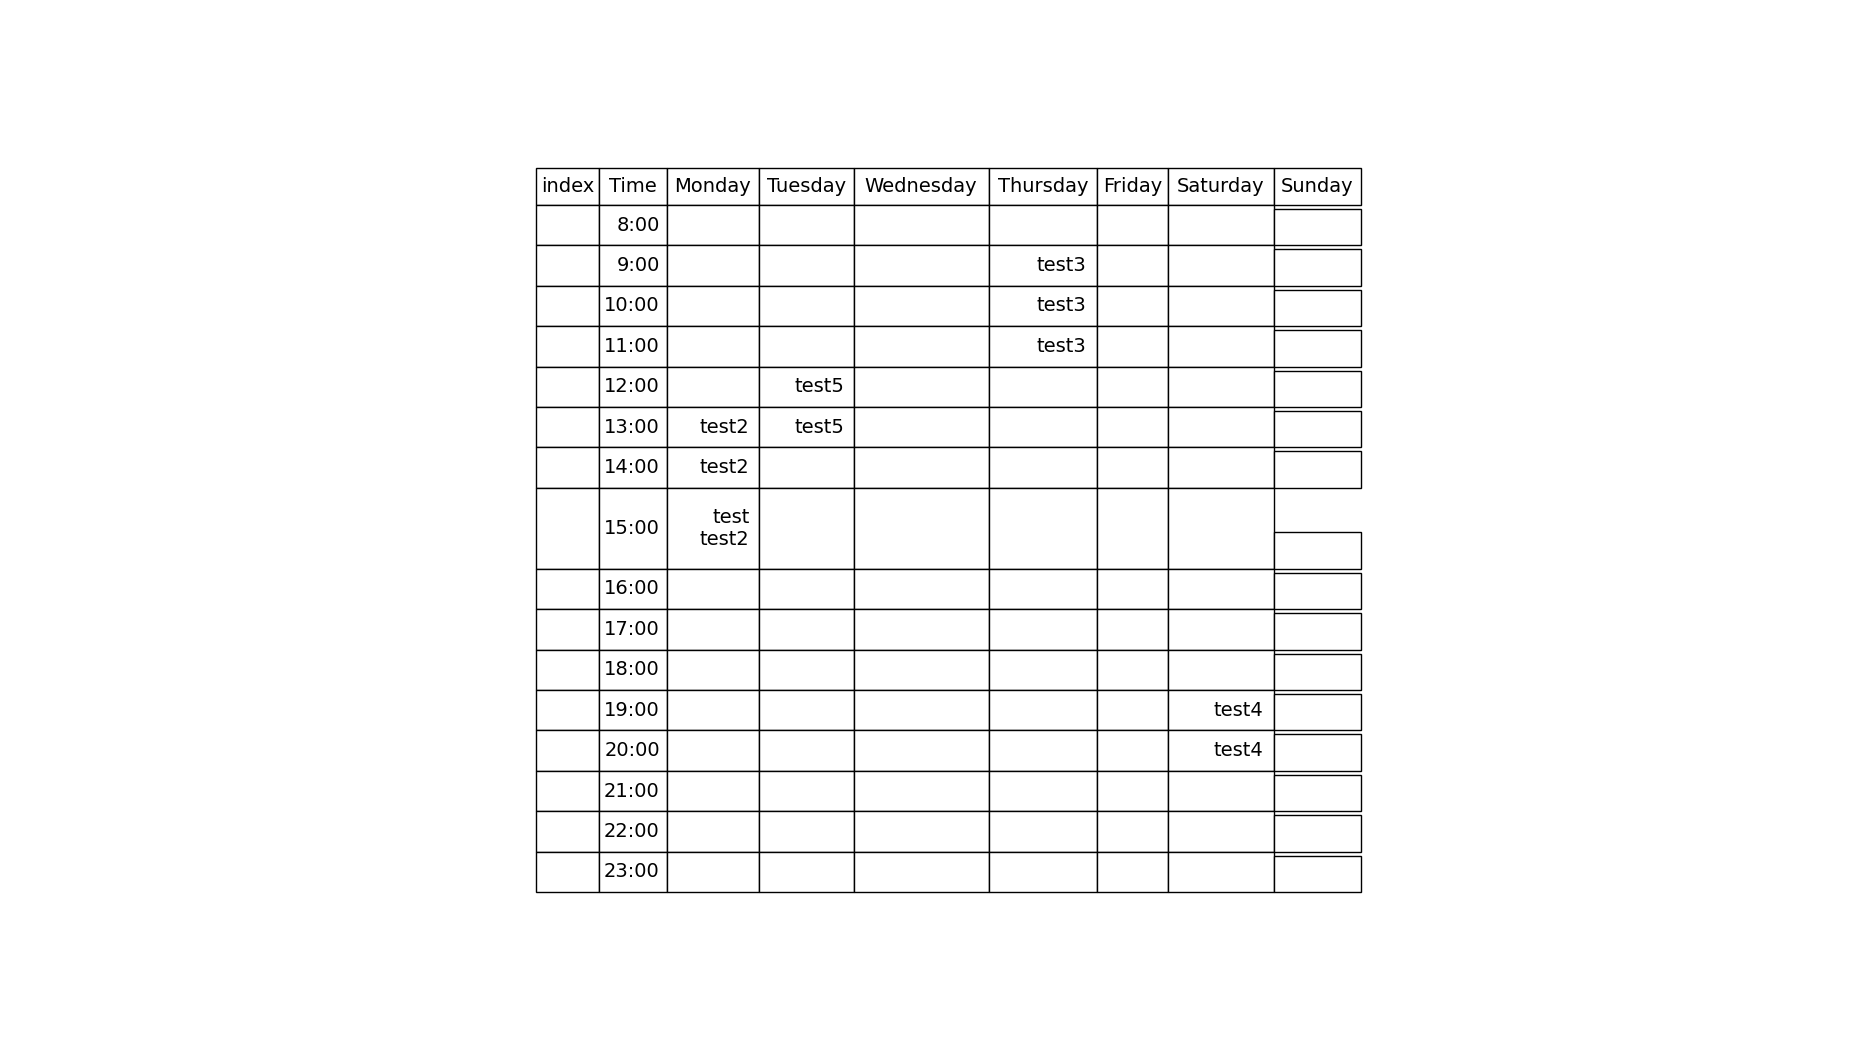
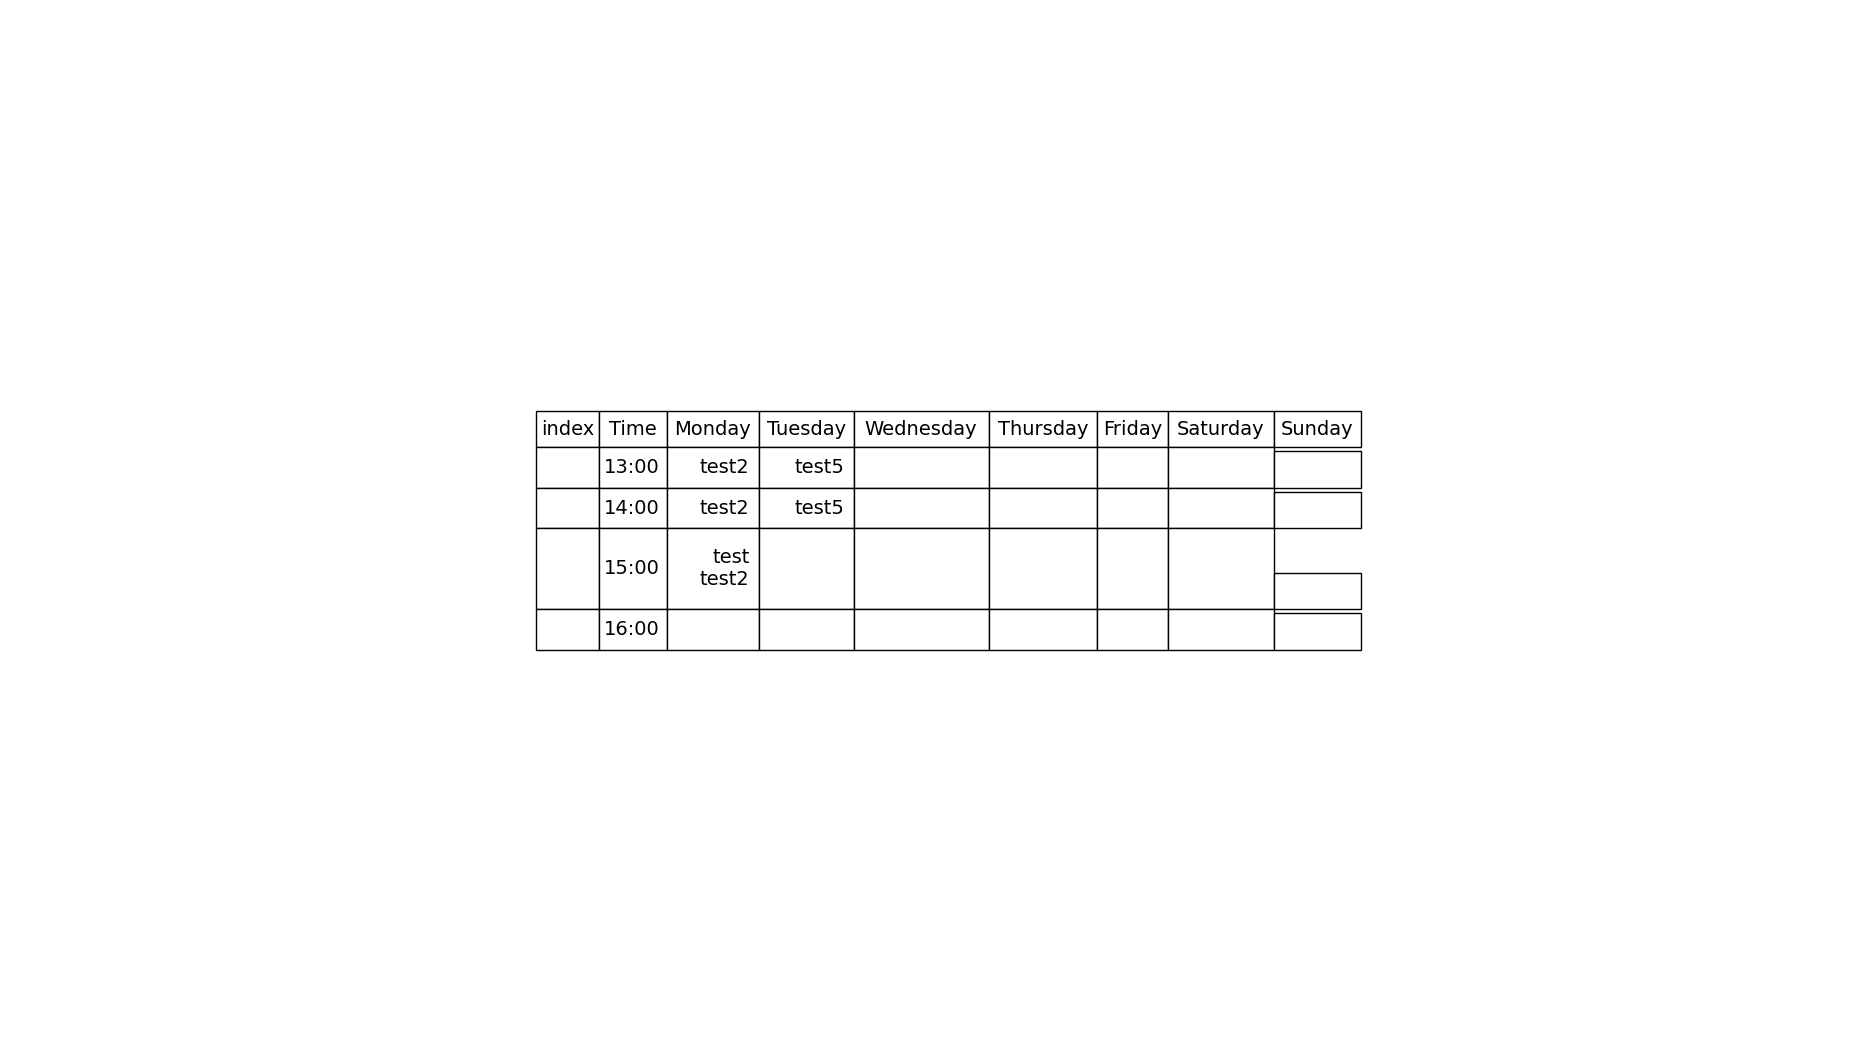
Code organized and time interval bugs fixed

diff --git a/scheduler.py b/scheduler.py
@@ -1,8 +1,15 @@
-from config import DEBUG, START_OF_DAY_HOUR, END_OF_DAY_HOUR, TIME_INTERVAL
+from config import DEBUG, START_OF_DAY_HOUR, END_OF_DAY_HOUR, TIME_INTERVAL_TYPE
 import matplotlib.pyplot as plt
 import matplotlib.table
 import pandas as pd
 from db import Database
+
+if TIME_INTERVAL_TYPE == 1:
+    TIME_INTERVAL = 4
+elif TIME_INTERVAL_TYPE == 2:
+    TIME_INTERVAL = 2
+else:
+    TIME_INTERVAL = 1
 
 
 class Scheduler:
@@ -182,7 +189,7 @@ class Scheduler:
 
         return cursor
 
-    def get_activities_by_type(self, act_type, start_date, end_date):
+    def get_activities_by_a_type(self, act_type, start_date, end_date):
         """ get activities from the database e for a user """
 
         select_sql = f"""SELECT * FROM Activity WHERE type = {act_type} AND date >= '{start_date}' 
@@ -201,59 +208,118 @@ class Scheduler:
 
         return cursor
 
-    def add_activity_to_dataframe(self, start_time_index, end_time_index, column, title):
+    def get_activities_by_set_of_types(self, types: tuple, start_date, end_date):
+        """ get activities from the database e for a user """
+
+        select_sql = f"""SELECT * FROM Activity WHERE type IN {types} AND date >= '{start_date}' 
+                        AND date <= '{end_date}';"""
+
+        cursor = self.db.select(select_sql)
+
+        if cursor is None:
+            print("No activities found for these types")
+            return None
+
+        cursor = cursor.fetchall()
+        if cursor is None or len(cursor) == 0:
+            print("No activities found for these types")
+            return None
+
+        return cursor
+
+    def add_activity_to_dataframe(self, activity):
         """ Add an activity to the dataframe """
+
+        # Find the day of the week
+        column = pd.to_datetime(activity[5]).day_name()
+
+        # Find the start and end time
+        start_time = pd.to_datetime(activity[6]).strftime('%H:%M')
+        end_time = pd.to_datetime(activity[7]).strftime('%H:%M')
+
+        # Find the start and end time index
+        start_time_index, end_time_index = self.get_start_and_end_time_index(start_time, end_time)
+
+        # Find the title
+        title = activity[2]
+
         if DEBUG:
-            print(start_time_index, end_time_index, column, title)
+            print("add_activity_to_dataframe:", start_time_index, end_time_index, column, title)
 
         # Add the title to the dataframe
         for i in range(start_time_index, end_time_index):
+            if DEBUG:
+                print("add_activity_to_dataframe 2:", i, (END_OF_DAY_HOUR - START_OF_DAY_HOUR) * TIME_INTERVAL,
+                      len(self.df_weekly))
+
+            if i < 0 or i >= (END_OF_DAY_HOUR - START_OF_DAY_HOUR) * TIME_INTERVAL:
+                continue
+
             if (self.df_weekly.loc[i, column] == '' or self.df_weekly.loc[i, column] == 'nan'
                     or not isinstance(self.df_weekly.loc[i, column], str)):
                 self.df_weekly.loc[i, column] = title
             else:
                 self.df_weekly.loc[i, column] += f'\n{title}'
 
-    def create_weekly_dataframe_hourly(self, start_date, end_date):
+    def get_start_and_end_time_index(self, start_time, end_time):
+        start_time_index = None
+        end_time_index = None
+
+        start_hour = int(start_time.split(':')[0])
+        start_min = int(start_time.split(':')[1])
+
+        end_hour = int(end_time.split(':')[0])
+        end_min = int(end_time.split(':')[1])
+
+        # Find the start and end time index
+        if TIME_INTERVAL_TYPE == 1:
+            start_time_index = (start_hour - START_OF_DAY_HOUR) * 4 + (start_min // 15)
+
+            end_min_index = end_min // 15
+            end_time_index = (end_hour - START_OF_DAY_HOUR) * 4 + end_min_index + (end_min % 15 > 0)
+
+        elif TIME_INTERVAL_TYPE == 2:
+            start_time_index = (start_hour - START_OF_DAY_HOUR) * 2 + (start_min // 30)
+            end_time_index = (end_hour - START_OF_DAY_HOUR) * 2 + (end_min // 30) + (end_min % 30 > 0)
+
+        elif TIME_INTERVAL_TYPE == 3:
+            start_time_index = (start_hour - START_OF_DAY_HOUR)
+            end_time_index = (end_hour - START_OF_DAY_HOUR) + (end_min > 0)
+
+        if DEBUG:
+            print("get_start_and_end_time_index:", start_time_index, end_time_index)
+
+        return start_time_index, end_time_index
+
+    def create_weekly_dataframe_hourly(self, start_date, end_date, types: tuple = (0, 1, 2, 3, 4, 5)):
         """ create a dataframe for the activities in the database for a period of time based on hourly intervals """
 
         # Get all activities in the interval
-        activities = self.get_activities_by_date(start_date, end_date)
+        activities = self.get_activities_by_set_of_types(types, start_date, end_date)
 
         # Add the time to the dataframe
         for i in range(START_OF_DAY_HOUR, END_OF_DAY_HOUR):
             self.df_weekly.loc[i - START_OF_DAY_HOUR, 'Time'] = f'{i}:00'
 
+            if DEBUG:
+                self.df_weekly.loc[i - START_OF_DAY_HOUR, 'index'] = f'{i - START_OF_DAY_HOUR}'
+
         # Add all activities to the dataframe
         if DEBUG:
-            print(activities)
+            print("create_weekly_dataframe_hourly:", activities)
 
         for activity in activities:
-            # Find the day of the week
-            day_of_week = pd.to_datetime(activity[5]).day_name()
-
-            # Find the start and end time
-            start_time = pd.to_datetime(activity[6]).strftime('%H:%M')
-            end_time = pd.to_datetime(activity[7]).strftime('%H:%M')
-
-            # Find the start and end time index
-            start_time_index = int(start_time.split(':')[0]) - START_OF_DAY_HOUR
-            end_time_index = int(end_time.split(':')[0]) - START_OF_DAY_HOUR
-
-            # Find the title
-            title = activity[2]
-
-            self.add_activity_to_dataframe(start_time_index, end_time_index, day_of_week, title)
+            self.add_activity_to_dataframe(activity)
 
         # Fill all empty cells with empty string
         self.df_weekly.fillna('', inplace=True)
 
         return self.df_weekly
 
-    def create_weekly_dataframe_30_mins(self, start_date, end_date):
+    def create_weekly_dataframe_30_mins(self, start_date, end_date, types: tuple = (0, 1, 2, 3, 4, 5)):
         """ create a dataframe for the activities in the database for a period of time based on 30 minutes intervals """
         # Get all activities in the interval
-        activities = self.get_activities_by_date(start_date, end_date)
+        activities = self.get_activities_by_set_of_types(types, start_date, end_date)
 
         # Add the time to the dataframe
         for i in range(START_OF_DAY_HOUR, END_OF_DAY_HOUR):
@@ -266,40 +332,20 @@ class Scheduler:
 
         # Add all activities to the dataframe
         if DEBUG:
-            print(activities)
+            print("create_weekly_dataframe_30_mins:", activities)
 
         for activity in activities:
-            # Find the day of the week
-            day_of_week = pd.to_datetime(activity[5]).day_name()
-
-            # Find the start and end time
-            start_time = pd.to_datetime(activity[6]).strftime('%H:%M')
-            end_time = pd.to_datetime(activity[7]).strftime('%H:%M')
-
-            # Find the start and end time index
-            tmp_start_time = start_time.split(':')
-            start_time_index = 2 * (int(tmp_start_time[0]) - START_OF_DAY_HOUR) + (int(tmp_start_time[1]) // 30)
-            tmp_end_time = end_time.split(':')
-
-            end_time_index = 2 * int(tmp_end_time[0]) - int(tmp_start_time[0]) + (int(tmp_end_time[1]) // 30)
-
-            if DEBUG:
-                print(start_time_index, start_time, end_time_index, end_time)
-
-            # Find the title
-            title = activity[2]
-
-            self.add_activity_to_dataframe(start_time_index, end_time_index, day_of_week, title)
+            self.add_activity_to_dataframe(activity)
 
         # Fill all empty cells with empty string
         self.df_weekly.fillna('', inplace=True)
 
         return self.df_weekly
 
-    def create_weekly_dataframe_15_mins(self, start_date, end_date):
+    def create_weekly_dataframe_15_mins(self, start_date, end_date, types: tuple = (0, 1, 2, 3, 4, 5)):
         """ create a dataframe for the activities in the database for a period of time based on 15 minutes intervals """
         # Get all activities in the interval
-        activities = self.get_activities_by_date(start_date, end_date)
+        activities = self.get_activities_by_set_of_types(types, start_date, end_date)
 
         # Add the time to the dataframe
         for i in range(START_OF_DAY_HOUR, END_OF_DAY_HOUR):
@@ -316,41 +362,10 @@ class Scheduler:
 
         # Add all activities to the dataframe
         if DEBUG:
-            print(activities)
+            print("create_weekly_dataframe_15_mins:", activities)
 
         for activity in activities:
-            # Find the day of the week
-            day_of_week = pd.to_datetime(activity[5]).day_name()
-
-            # Find the start and end time
-            start_time = pd.to_datetime(activity[6]).strftime('%H:%M')
-            end_time = pd.to_datetime(activity[7]).strftime('%H:%M')
-
-            # Find the start and end time index
-            tmp_start_hour, tmp_start_min = start_time.split(':')
-            tmp_start_hour = int(tmp_start_hour)
-            tmp_start_min = int(tmp_start_min)
-
-            tmp_end_hour, tmp_end_min = end_time.split(':')
-            tmp_end_hour = int(tmp_end_hour)
-            tmp_end_min = int(tmp_end_min)
-
-            if DEBUG:
-                print("CHECK1: ", tmp_start_hour, tmp_start_min, tmp_end_hour, tmp_end_min)
-                print("CHECK2: ", tmp_start_hour - START_OF_DAY_HOUR, tmp_start_min // 15)
-
-            start_time_index = 4 * (tmp_start_hour - START_OF_DAY_HOUR) + (tmp_start_min // 15)
-
-            end_time_index = start_time_index + (4 * (tmp_end_hour - tmp_start_hour)
-                                                 + (tmp_end_min // 15)) + 1
-
-            if DEBUG:
-                print(start_time_index, start_time, end_time_index, end_time)
-
-            # Find the title
-            title = activity[2]
-
-            self.add_activity_to_dataframe(start_time_index, end_time_index, day_of_week, title)
+            self.add_activity_to_dataframe(activity)
 
         # Fill all empty cells with empty string
         self.df_weekly.fillna('', inplace=True)
@@ -365,9 +380,9 @@ class Scheduler:
         """
 
         # Create the dataframe
-        if TIME_INTERVAL == 1:
+        if TIME_INTERVAL_TYPE == 1:
             self.create_weekly_dataframe_15_mins(start_date, end_date)
-        elif TIME_INTERVAL == 2:
+        elif TIME_INTERVAL_TYPE == 2:
             self.create_weekly_dataframe_30_mins(start_date, end_date)
         else:
             self.create_weekly_dataframe_hourly(start_date, end_date)

diff --git a/config.py b/config.py
@@ -1,4 +1,4 @@
 DEBUG = True
-START_OF_DAY_HOUR = 8
-END_OF_DAY_HOUR = 24
-TIME_INTERVAL = 3  # 1- 15 min, 2- 30 min, 3- 1 hour
+START_OF_DAY_HOUR = 13
+END_OF_DAY_HOUR = 17
+TIME_INTERVAL_TYPE = 3  # 1- 15 min, 2- 30 min, 3- 1 hour
